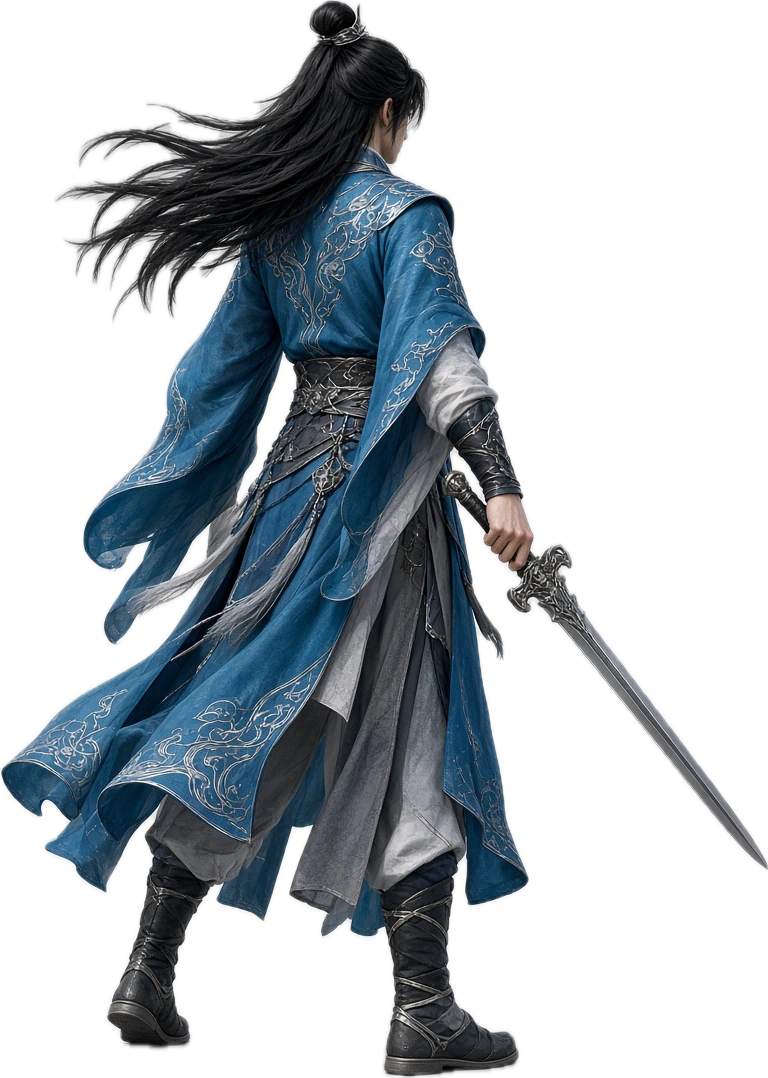
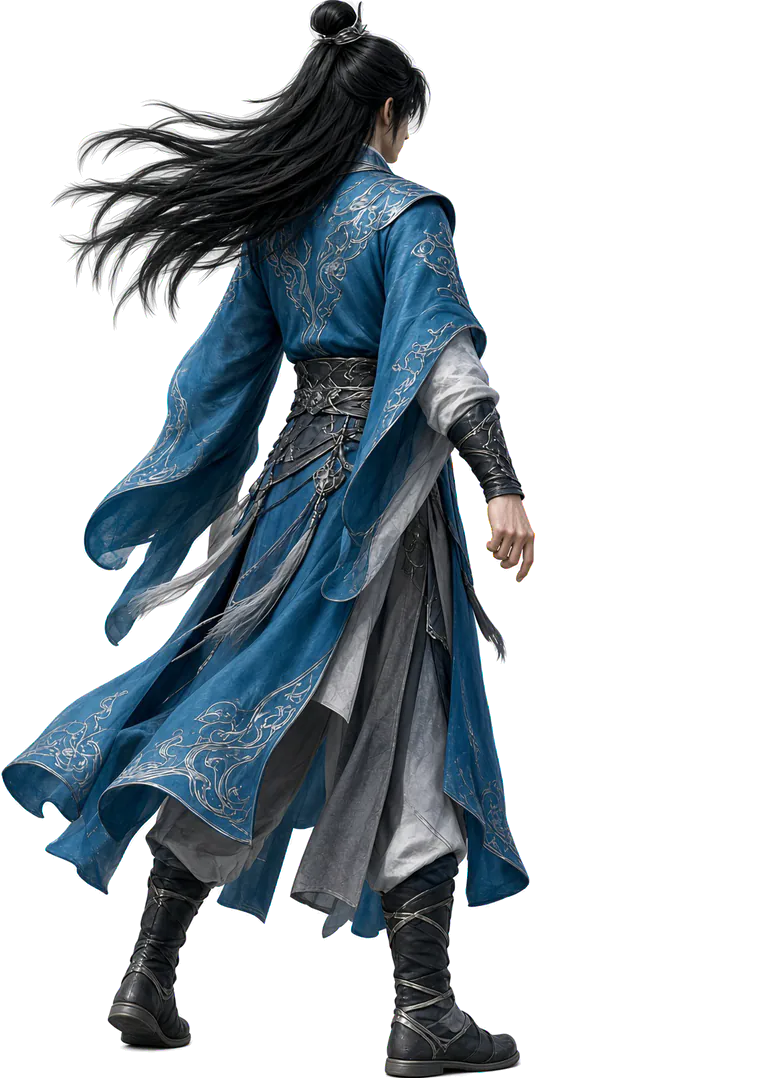
戰鬥立繪改無劍版，主手兵器一律疊圖
覆蓋 hero、hero_yunxi 的 battle_stance、battle_hold（尺寸不變，劍身座標不動），
移除 ui.js 的 qinggang 例外。

diff --git a/js/ui.js b/js/ui.js
@@ -33,7 +33,6 @@ const HERO_SWORD = {
 const BATTLE_POSE = { normal: { hold: 'bhold', stance: 'bstance' }, nitian: { hold: 'blean', stance: 'blean' } };
 const battlePose = (w) => BATTLE_POSE[w && w.id === 'nitian' ? 'nitian' : 'normal'];
 // 疊在劍身上的兵器圖：原圖轉 rot 度後劍尖朝下，劍長約為轉正後的高度；依劍長換算圖寬，讓整把劍剛好蓋住立繪裡的劍
-// shortcut: 立繪本身畫著青鋼劍，疊圖只能蓋住大部分；補上無劍立繪後，把 battle_stance/battle_hold 換成無劍版即可
 function wovFit(img) {
   const r = (parseFloat(img.dataset.rot) || 0) * Math.PI / 180, w = img.naturalWidth, h = img.naturalHeight;
   img.style.width = (100 * w) / (h * Math.abs(Math.cos(r)) + w * Math.abs(Math.sin(r))) + '%'; img.classList.add('on');
@@ -50,8 +49,8 @@ const heroArmed = (w, kind, cls = '') => {
   if (w && H.blade) {
     const [x1, y1, x2, y2] = H.blade, dx = x2 - x1, dy = (y2 - y1) / H.ar;
     const pos = `left:${x1 * 100}%;top:${y1 * 100}%;width:${Math.hypot(dx, dy) * 100}%;transform:rotate(${(Math.atan2(dy, dx) * 180) / Math.PI}deg)`;
-    // 戰鬥立繪畫的是青鋼劍：主手換成別的劍時把那把劍的圖疊上去
-    const wov = /^b(stance|hold)$/.test(kind) && w.id !== 'qinggang' ? `<i class="wov" style="${pos}"><img src="${W_IMG(w.id)}" data-rot="${w.rot || 0}" onload="wovFit(this)" alt=""></i>` : '';
+    // 戰鬥立繪不畫劍：一律把主手兵器圖疊在劍身位置
+    const wov = /^b(stance|hold)$/.test(kind) ?`<i class="wov" style="${pos}"><img src="${W_IMG(w.id)}" data-rot="${w.rot || 0}" onload="wovFit(this)" alt=""></i>` : '';
     fx = `${wov}<i class="blade" style="${pos}"></i>`;
   }
   if (w && H.hilt) fx = `<i class="hilt" style="left:${H.hilt[0] * 100}%;top:${H.hilt[1] * 100}%"></i>`;
